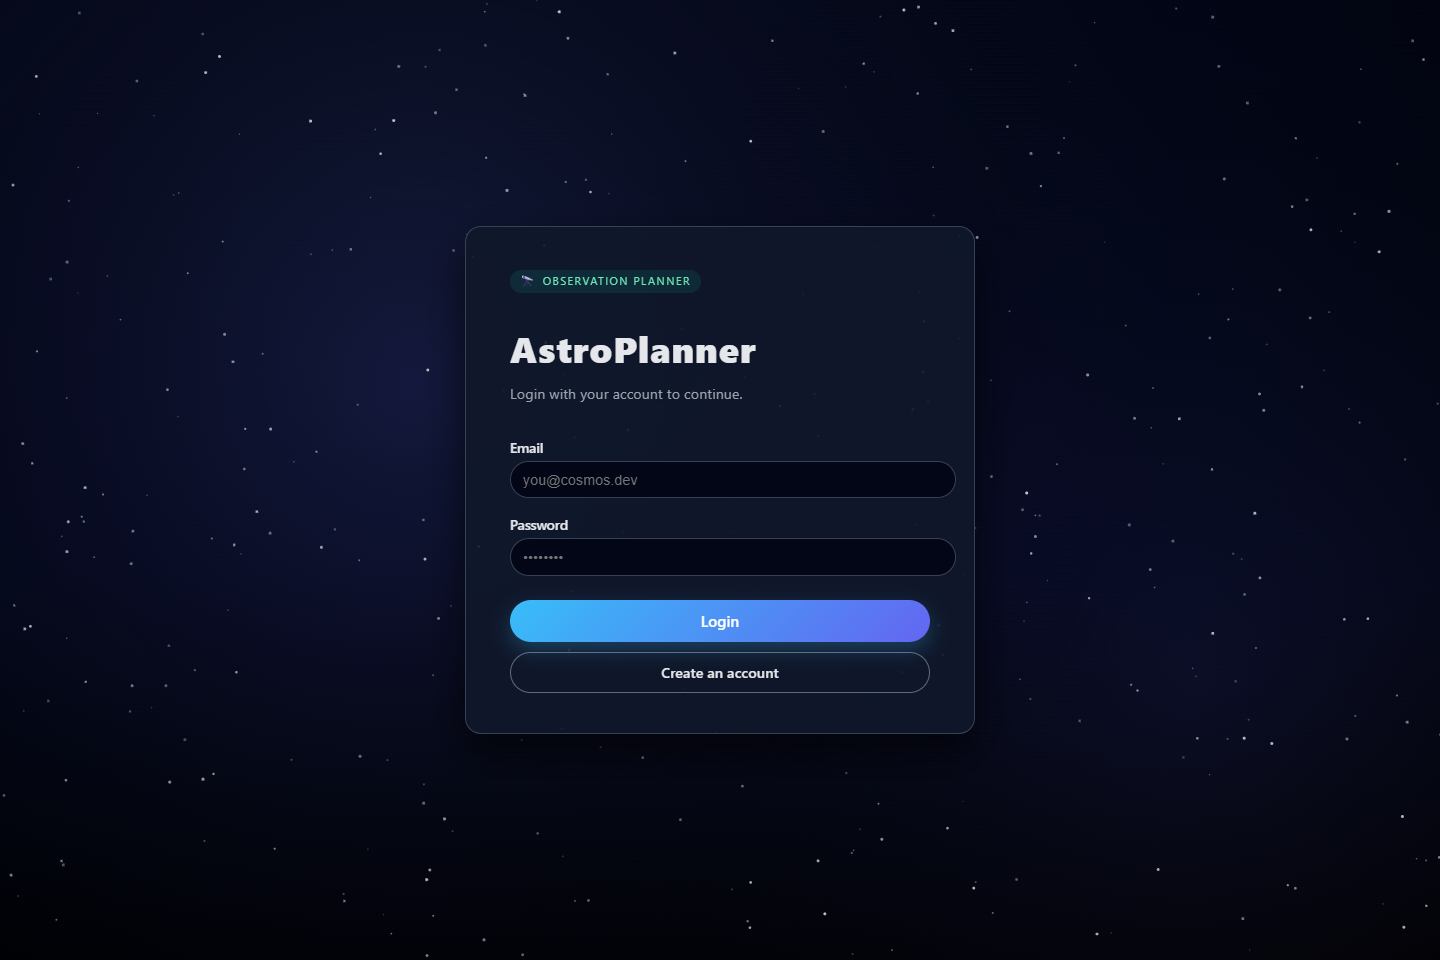
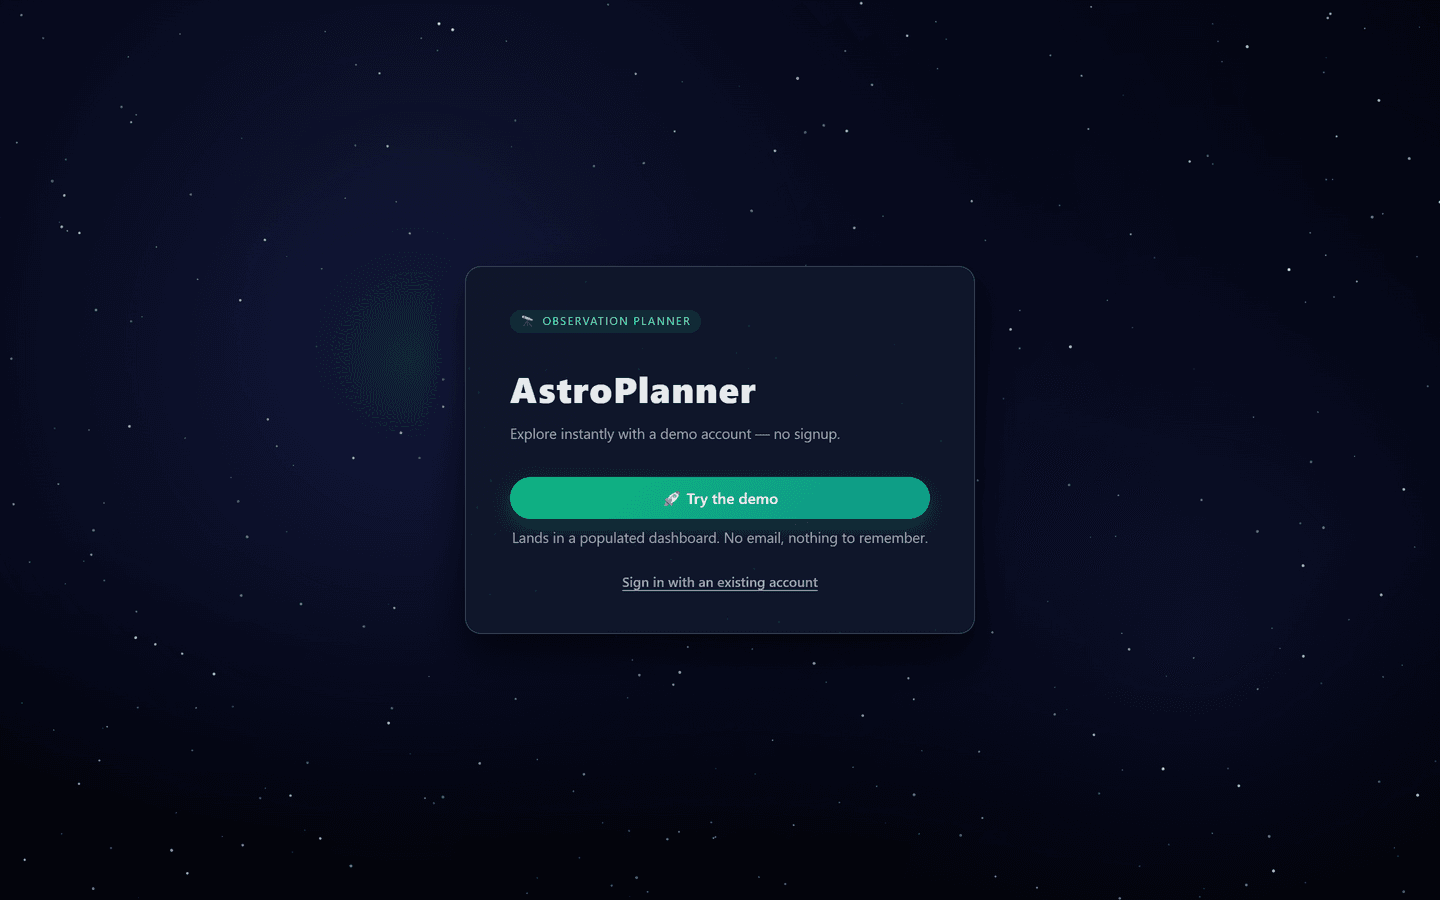
Add Caddy TLS deployment, backups, and updated docs/screenshots

Changed region(s): [[0.3438, 0.3422, 0.6562, 0.7467], [0.3438, 0.28, 0.5, 0.3111]]

diff --git a/backend/app/main.py b/backend/app/main.py
@@ -1,19 +1,61 @@
+import asyncio
+import logging
 from contextlib import asynccontextmanager
 
 from fastapi import FastAPI
 from fastapi.middleware.cors import CORSMiddleware
+from app.core import config
 from app.core.config import CORS_ORIGINS, CORS_ORIGIN_REGEX
 from app.routers import targets
-from app.db.database import Base, engine
+from app.db.database import Base, engine, SessionLocal
 from app.models import user, location, observation_session, observation_log  # noqa
 from app.routers import auth, locations, sessions, observation_logs, weather, geocode
 from app.routers import planner
+from app.routers import advisor
+from app.routers import demo
+from app.routers.demo import purge_expired_demo_users
+
+logger = logging.getLogger("astroplanner")
+
+# How often the background task revisits demo cleanup. The TTL itself
+# (DEMO_USER_TTL_HOURS) decides how old an account must be to go.
+DEMO_PURGE_INTERVAL_SECONDS = 3600
+
+
+def _purge_demo_users() -> None:
+    """Run one cleanup pass in its own session, swallowing errors so a
+    transient DB hiccup never takes down startup or the purge loop."""
+    db = SessionLocal()
+    try:
+        removed = purge_expired_demo_users(db)
+        if removed:
+            logger.info("Purged %d expired demo account(s)", removed)
+    except Exception:  # pragma: no cover - defensive
+        logger.exception("Demo cleanup pass failed")
+    finally:
+        db.close()
+
+
+async def _demo_purge_loop() -> None:
+    while True:
+        await asyncio.sleep(DEMO_PURGE_INTERVAL_SECONDS)
+        await asyncio.to_thread(_purge_demo_users)
 
 
 @asynccontextmanager
 async def lifespan(app: FastAPI):
     Base.metadata.create_all(bind=engine)
-    yield
+    # Only bother with demo cleanup where demo accounts can exist. Sweep
+    # once at startup (catches anything left by a previous run), then hourly.
+    purge_task = None
+    if config.DEMO_MODE:
+        _purge_demo_users()
+        purge_task = asyncio.create_task(_demo_purge_loop())
+    try:
+        yield
+    finally:
+        if purge_task:
+            purge_task.cancel()
 
 
 app = FastAPI(title="AstroPlanner API", lifespan=lifespan)
@@ -36,6 +78,8 @@ app.include_router(weather.router)
 app.include_router(geocode.router)
 app.include_router(targets.router)
 app.include_router(planner.router)
+app.include_router(advisor.router)
+app.include_router(demo.router)
 
 @app.get("/health")
 def health_check():

diff --git a/backend/app/core/config.py b/backend/app/core/config.py
@@ -23,6 +23,22 @@ CORS_ORIGINS = [
     if origin.strip()
 ]
 
+# Rate limits for internet-abusable endpoints (per client IP for auth,
+# per user for the advisor). Tune via env if needed.
+RATE_LIMIT_LOGIN_PER_MIN = int(os.getenv("RATE_LIMIT_LOGIN_PER_MIN", "10"))
+RATE_LIMIT_REGISTER_PER_HOUR = int(os.getenv("RATE_LIMIT_REGISTER_PER_HOUR", "10"))
+RATE_LIMIT_ADVISOR_PER_MIN = int(os.getenv("RATE_LIMIT_ADVISOR_PER_MIN", "5"))
+RATE_LIMIT_ADVISOR_PER_DAY = int(os.getenv("RATE_LIMIT_ADVISOR_PER_DAY", "25"))
+# Demo accounts get a tighter daily advisor cap: each demo question costs a
+# little Anthropic spend, and a throwaway visitor doesn't need a full day's
+# allowance. The Console spend cap is the ultimate backstop.
+RATE_LIMIT_DEMO_ADVISOR_PER_DAY = int(os.getenv("RATE_LIMIT_DEMO_ADVISOR_PER_DAY", "5"))
+
+# Optional: enables the /advisor natural-language recommendation endpoint.
+# When unset the endpoint reports itself disabled and the app runs normally.
+ANTHROPIC_API_KEY = os.getenv("ANTHROPIC_API_KEY") or None
+ADVISOR_MODEL = os.getenv("ADVISOR_MODEL", "claude-opus-4-8")
+
 # Any localhost port is also allowed by default: vite silently bumps to 5174+
 # when its usual port is taken, which otherwise breaks CORS in a way the UI
 # can't explain (server logs 200, browser blocks the response). Set to an
@@ -30,3 +46,31 @@ CORS_ORIGINS = [
 CORS_ORIGIN_REGEX = os.getenv(
     "CORS_ORIGIN_REGEX", r"^https?://(localhost|127\.0\.0\.1)(:\d+)?$"
 ) or None
+
+
+def _env_bool(name: str, default: str) -> bool:
+    return os.getenv(name, default).strip().lower() in ("1", "true", "yes", "on")
+
+
+# --- Demo mode -------------------------------------------------------------
+# DEMO_MODE exposes POST /demo/start, which creates a throwaway seeded
+# account and returns a real (short-lived) JWT. ALLOW_REGISTRATION gates
+# /auth/register so a public deployment can run demo-only: no stranger PII
+# on the server, while the auth machinery stays live and ownership
+# isolation is still enforced between demo users.
+DEMO_MODE = _env_bool("DEMO_MODE", "false")
+ALLOW_REGISTRATION = _env_bool("ALLOW_REGISTRATION", "true")
+
+# Demo tokens are deliberately shorter-lived than normal logins.
+DEMO_TOKEN_EXPIRE_MINUTES = int(os.getenv("DEMO_TOKEN_EXPIRE_MINUTES", "120"))
+
+# Demo accounts (and all their seeded rows, via FK cascade) are purged
+# once they are older than this.
+DEMO_USER_TTL_HOURS = int(os.getenv("DEMO_USER_TTL_HOURS", "24"))
+
+# Per-IP cap on demo-account creation. Deliberately generous: visitors
+# behind CGNAT (mobile carriers, office/university networks) share one
+# public IP, and turning away a real visitor costs far more than a few
+# throwaway rows. Demo accounts are cheap — the spendy resource is the
+# advisor, which is capped separately per user.
+RATE_LIMIT_DEMO_PER_HOUR = int(os.getenv("RATE_LIMIT_DEMO_PER_HOUR", "30"))

diff --git a/README.md b/README.md
@@ -16,6 +16,12 @@ check the hourly forecast for your session, and log what you saw.
   Moon, planets, and bright DSOs at your chosen time and place, with
   "why not visible" explanations, computed with Skyfield + the JPL DE421
   ephemeris
+- **Sky advisor** (optional): ask a plain-language question ("what's worth
+  looking at Friday night?") and get an answer from Claude grounded strictly
+  in the app's own computed data — darkness window, moon, ranked targets, and
+  the hourly cloud forecast are bundled into one JSON block the model is
+  instructed to not stray from; the UI shows the answer and the data behind
+  it. Feature-flagged on `ANTHROPIC_API_KEY`; the app runs normally without it
 - Saved observing locations with geocoding autofill (name → coordinates + timezone)
 - Session planning in the location's local timezone (stored as UTC)
 - Hourly weather forecast for each planned session (Open-Meteo, humanized
@@ -24,15 +30,24 @@ check the hourly forecast for your session, and log what you saw.
   star ratings
 - Export planned sessions as an `.ics` calendar file
 - User accounts with JWT auth (case-insensitive emails, friendly API errors)
+- **Demo mode**: a one-click "Try the demo" button mints an ephemeral,
+  pre-seeded account so visitors land straight in a populated dashboard — with
+  public registration disabled by design on the hosted deploy (see below)
 - Ambient space backdrop: a procedural canvas starfield (parallax drift,
   twinkle, shooting stars) over a NASA/ESA photo of whatever target you're
   planning — ~4 MB of assets total, honors `prefers-reduced-motion`
 
 ## Screenshots
 
-| Login | Session details |
+The Sky advisor, answering a question about a night. Note that it flags the
+date mismatch rather than guessing, and reports poor conditions honestly —
+every figure it quotes comes from the app's own computed data:
+
+![Sky advisor](docs/screenshots/advisor.png)
+
+| Landing (demo deployment) | Tonight at a glance |
 |---|---|
-| ![Login](docs/screenshots/login.png) | ![Session details](docs/screenshots/session-details.png) |
+| ![Login](docs/screenshots/login.png) | ![Dashboard](docs/screenshots/dashboard.png) |
 
 ## Tech stack
 
@@ -80,9 +95,80 @@ cp .env.example .env    # set SECRET_KEY and POSTGRES_PASSWORD
 docker compose up --build
 ```
 
-Then open `http://localhost:8080`. nginx serves the built frontend, proxies
+Then open `http://localhost:8081`. nginx serves the built frontend, proxies
 `/api/*` to the FastAPI container (same origin, no CORS in production), and
-Postgres data persists in the `pgdata` volume.
+Postgres data persists in the `pgdata` volume. The frontend port is bound to
+loopback only — in production the public entrance is Caddy (below).
+
+## Production hosting (VPS)
+
+The repo is deploy-ready for a small VPS. One-time setup:
+
+1. **DNS**: point an A record (e.g. `astro.example.com`) at the server.
+2. **Server**: install Docker + compose, clone the repo, then create `.env`
+   with *fresh* production values — a new `SECRET_KEY`, a new
+   `POSTGRES_PASSWORD`, your `ANTHROPIC_API_KEY` (a key minted for this
+   server, not one used elsewhere), and `DOMAIN=astro.example.com`.
+3. **Firewall**: allow only 22 (SSH, key auth only), 80, and 443:
+   `ufw allow OpenSSH && ufw allow 80,443/tcp && ufw enable`.
+4. **Start**:
+
+   ```bash
+   docker compose -f docker-compose.yml -f docker-compose.prod.yml up -d --build
+   ```
+
+   Caddy terminates TLS (automatic Let's Encrypt), redirects HTTP→HTTPS, and
+   proxies to nginx over the compose network. Nothing else listens publicly.
+5. **Backups**: add a cron entry for `scripts/backup_db.sh` (nightly `pg_dump`
+   with 14-day rotation — see the header comment for the crontab line and the
+   restore command).
+6. **Demo cleanup (optional)**: the backend already purges expired demo
+   accounts at startup and hourly, but adding a cron entry for
+   `scripts/purge_demo_users.sh` covers the gap where the process is down or
+   restarting (see the header comment for the crontab line).
+7. **Spend cap**: set a hard monthly usage limit in the Claude Console
+   (Settings → Limits) as the backstop behind the app's advisor rate limits.
+
+Abuse protection is built in: login (10/min/IP), signup (10/hour/IP), demo
+creation (6/hour/IP), and advisor questions (5/min and 25/day per user, or
+5/day for demo users) are rate-limited server-side, with real client IPs
+recovered through the Caddy→nginx proxy chain. On the public deploy the
+cleanest abuse surface — open registration — is disabled outright (see
+[Demo mode](#demo-mode)).
+
+## Demo mode
+
+The hosted deployment runs **demo-only**: public registration is disabled and
+visitors explore through a throwaway account instead. This keeps the full
+feature set one click away for anyone evaluating the project while storing zero
+stranger PII — the alternative (open signup on a hobby VPS with no reset flow)
+adds real email addresses to custody and an abuse surface, and buys nothing.
+
+How it works:
+
+- **`POST /demo/start`** creates an ephemeral account with a server-generated
+  email and random password, pre-seeds it (two locations, planned + completed
+  sessions, observation logs), and returns a real, short-lived JWT. The visitor
+  is logged straight into a populated dashboard.
+- Nothing about auth is bypassed: the demo *is* a JWT login, and demo users
+  pass the same token verification and ownership checks as everyone else — so
+  two concurrent visitors can't see each other's data. The demo doubles as a
+  live demonstration of the security model.
+- **`ALLOW_REGISTRATION=false`** makes `POST /auth/register` return `403` and
+  hides the sign-up form; the frontend reads `GET /demo/status` to decide which
+  entry points to show.
+- A startup + hourly cleanup task purges demo accounts older than
+  `DEMO_USER_TTL_HOURS` (default 24h); seeded rows go with them via FK cascade,
+  so the database never accumulates anything. `scripts/purge_demo_users.sh` is
+  a cron-friendly wrapper around the same purge for belt-and-suspenders cleanup
+  when the process isn't running.
+- Demo accounts get a **tighter advisor allowance** (`5/day` vs `25/day`) since
+  each question costs a little Anthropic spend; the Console spend cap is the
+  ultimate backstop.
+
+Enable it by setting `DEMO_MODE=true` (and, for a public deploy,
+`ALLOW_REGISTRATION=false`) in `.env`. Left off, the app behaves exactly as
+before: normal signup, no demo endpoint.
 
 ## Configuration
 
@@ -92,11 +178,19 @@ Postgres data persists in the `pgdata` volume.
 | `DATABASE_URL` | optional | defaults to local SQLite; compose sets Postgres |
 | `CORS_ORIGINS` | optional | comma-separated origins for dev; unused same-origin |
 | `ACCESS_TOKEN_EXPIRE_MINUTES` | optional | JWT lifetime, default 60 |
+| `ANTHROPIC_API_KEY` | optional | enables the Sky advisor; unset = feature hidden |
+| `ADVISOR_MODEL` | optional | Claude model for the advisor, default `claude-opus-4-8` |
+| `DOMAIN` | prod only | public hostname for Caddy/Let's Encrypt |
+| `DEMO_MODE` | optional | exposes `POST /demo/start` (ephemeral seeded accounts), default off |
+| `ALLOW_REGISTRATION` | optional | `false` disables public signup (`/auth/register` → 403), default on |
+| `DEMO_USER_TTL_HOURS` | optional | age at which demo accounts are purged, default 24 |
+| `RATE_LIMIT_*` | optional | override the login/register/advisor/demo limits |
 
 ## Roadmap
 
-- Alembic migrations (schema is currently `create_all` on startup)
-- Rate limiting on auth endpoints
+- Alembic migrations (schema is currently `create_all` on startup — a
+  pre-existing SQLite dev database needs a manual `ALTER TABLE` after a
+  model change until this lands)
 - More DSO targets and a proper catalog search
 
 Background image credits: `frontend/src/assets/backgrounds/ATTRIBUTION.md`.